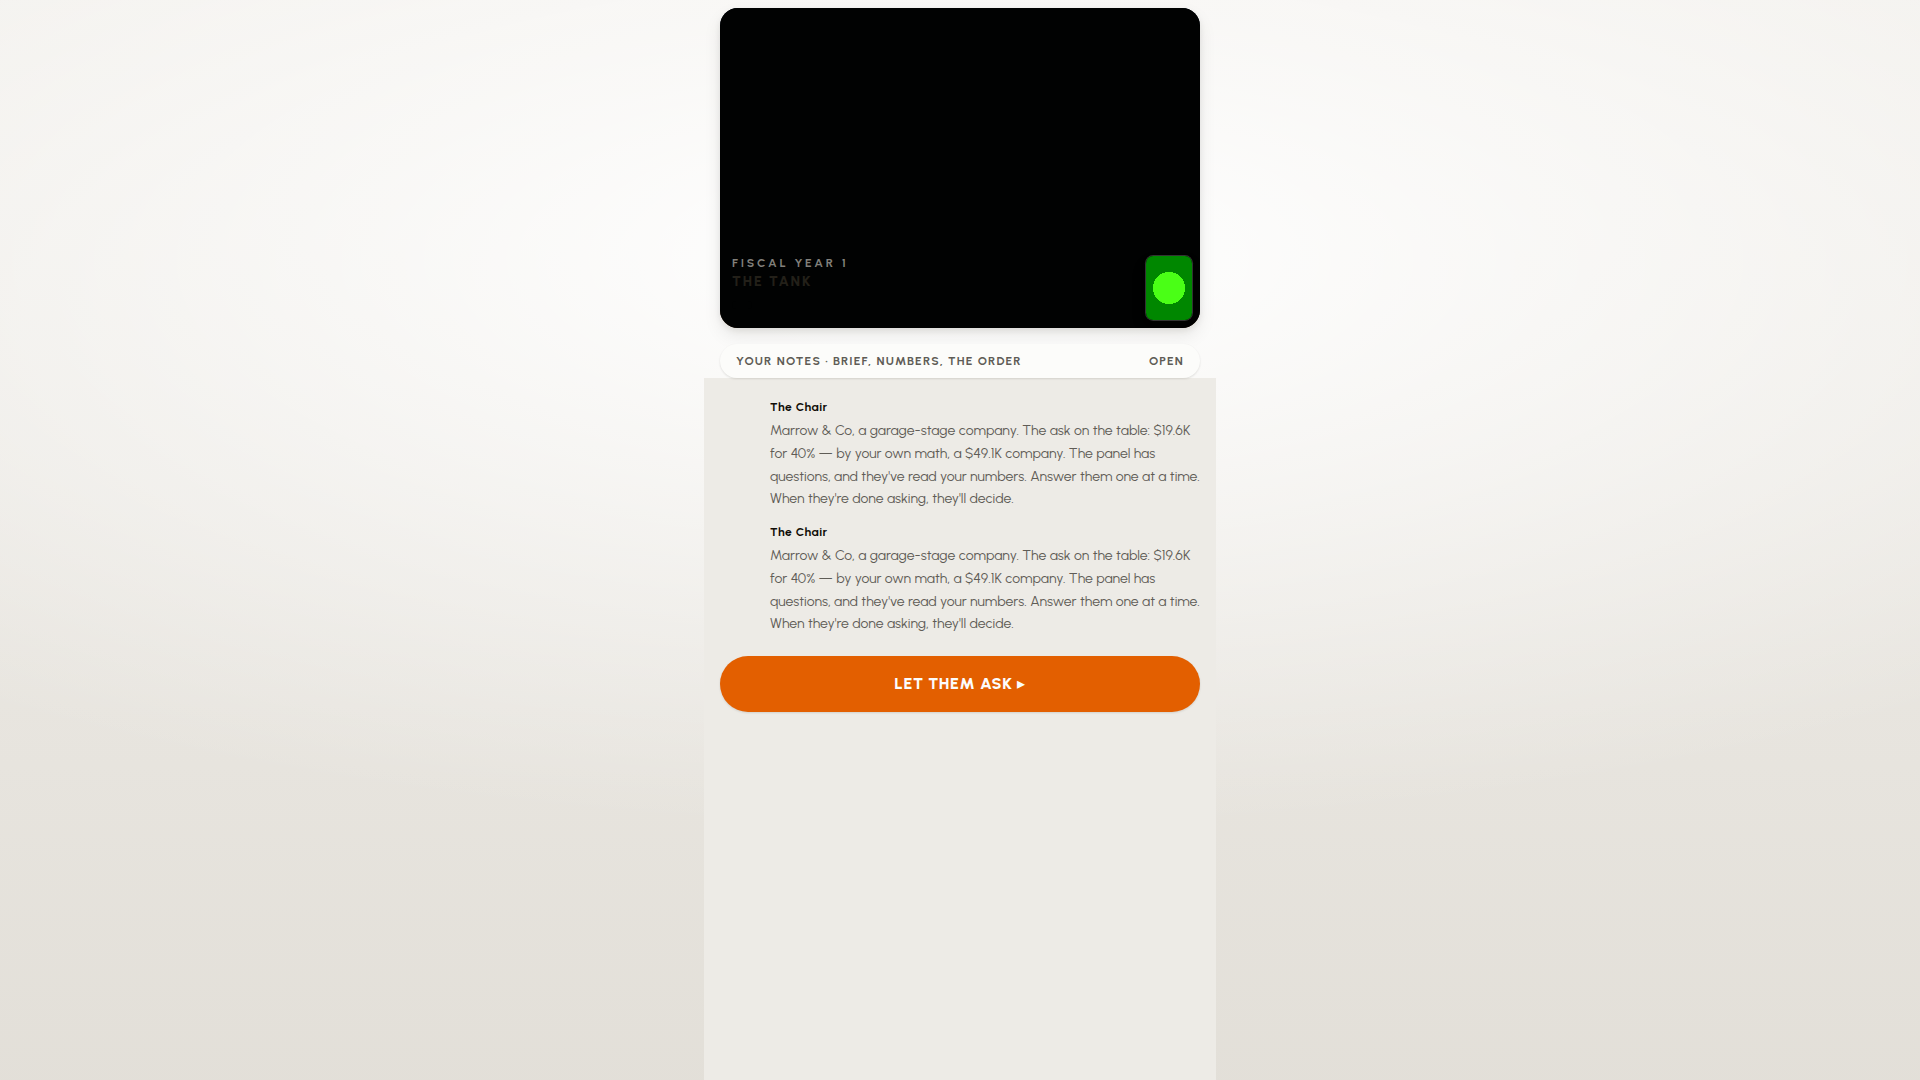
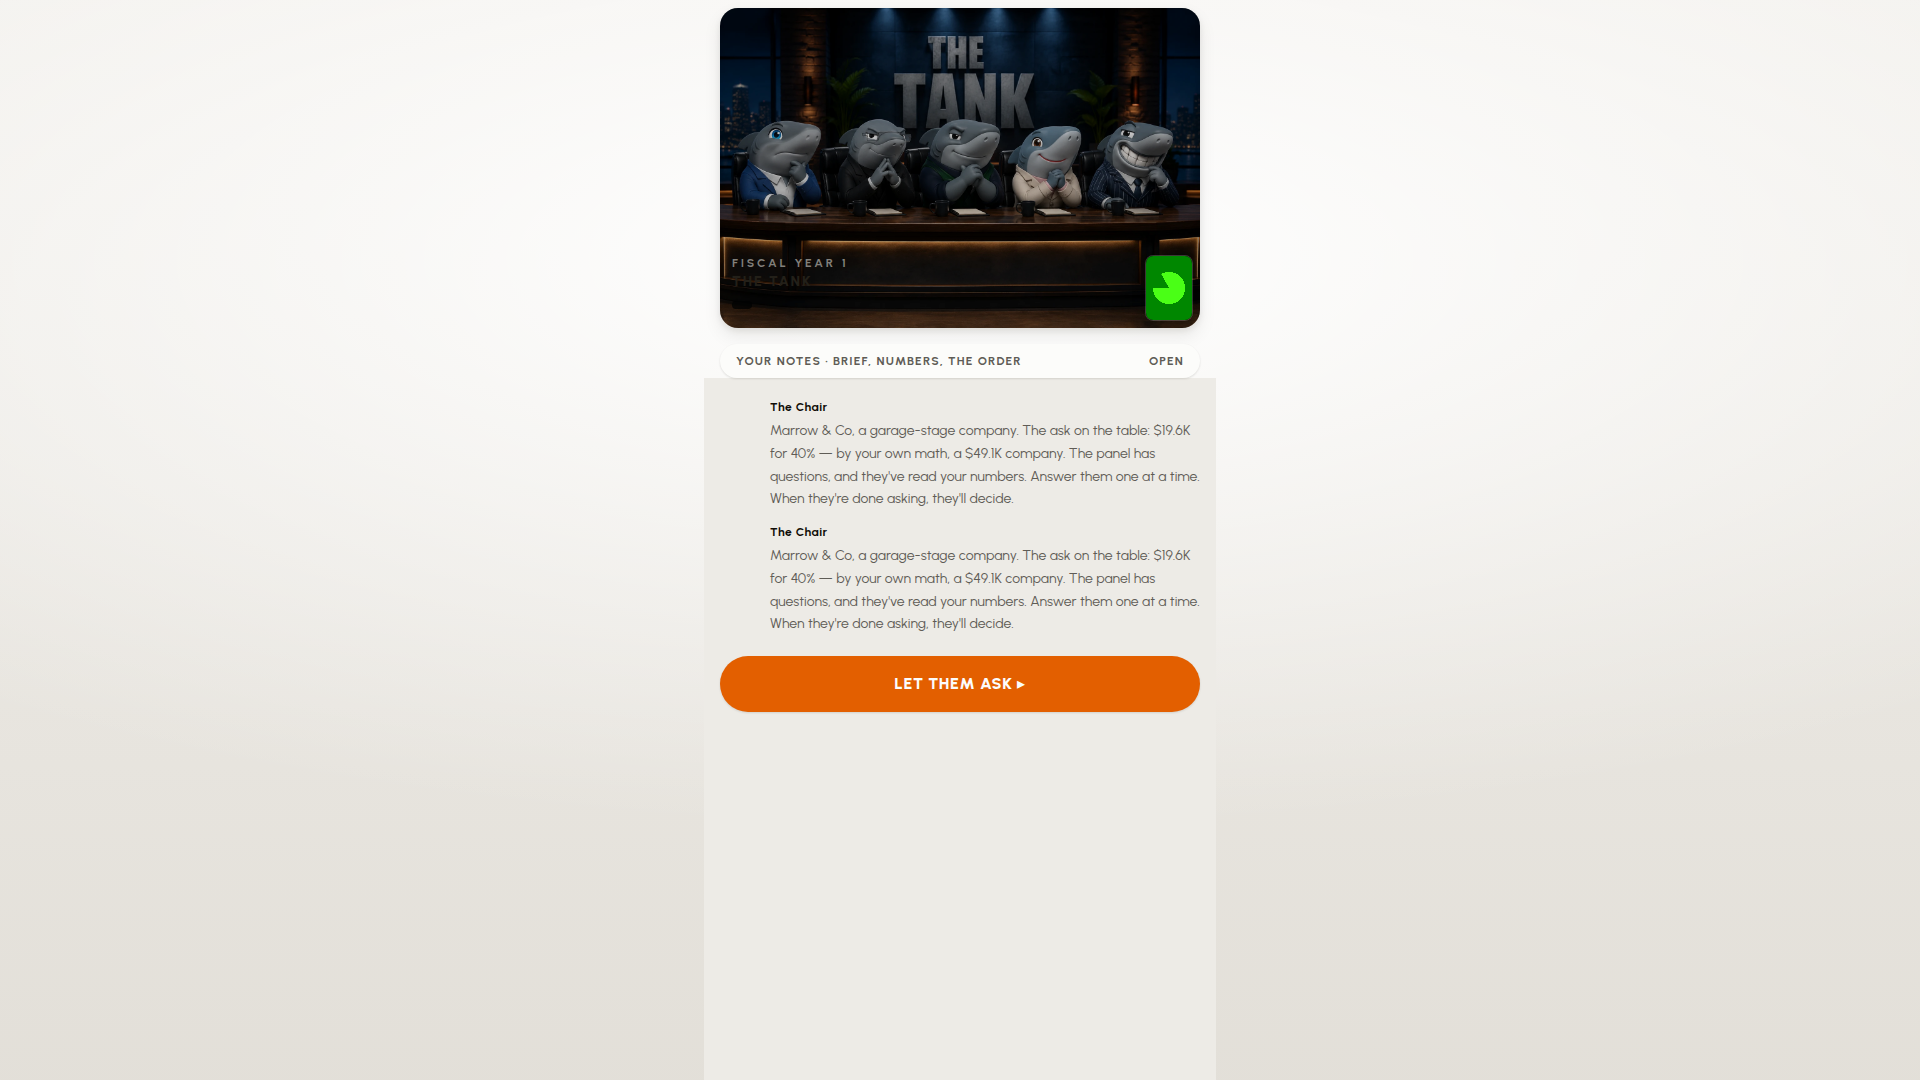
v3 frame 05-scenarios rebuilt
Claude-Session: https://claude.ai/code/session_012WSLRAiC5KC4WJfQrtdvFq

Changed region(s): [[0.375, 0.0, 0.625, 0.3056]]

diff --git a/videos/novus-launch/compositions/frames/05-scenarios.html b/videos/novus-launch/compositions/frames/05-scenarios.html
@@ -1,0 +1,287 @@
+<template>
+  <div id="root" data-composition-id="05-scenarios" data-duration="5.696" data-width="1920" data-height="1080">
+
+    <!-- full-bleed white stage ground -->
+    <div class="clip" id="05-bg" data-start="0" data-duration="5.696" data-track-index="0"></div>
+
+    <!-- typed pivot line (below the device so the sliding bezel reveals it) -->
+    <div class="clip" id="05-typed" data-start="4.9" data-duration="0.796" data-track-index="1">
+      <div class="typed-wrap">
+        <span class="typed-text" id="05-typed-text"></span><span class="typed-caret" id="05-typed-caret"></span>
+      </div>
+    </div>
+
+    <!-- bezel device: near-black hardware card on white; carries flash + drawn check at the pivot -->
+    <div class="clip" id="05-device" data-start="0" data-duration="5.696" data-track-index="2">
+      <div class="dev-wrap" id="05-devwrap">
+        <div class="dev-bezel">
+          <div class="dev-screen">
+            <svg class="dev-check-svg" viewBox="0 0 200 200" xmlns="http://www.w3.org/2000/svg">
+              <path id="05-check" d="M 48 104 L 88 146 L 156 62"/>
+            </svg>
+            <div class="dev-flash" id="05-flash"></div>
+          </div>
+        </div>
+      </div>
+    </div>
+
+    <!-- hoisted hero clip: decision card weighed and committed; window ends exactly at the "You decide." pivot (t=5.0) -->
+    <video data-frame-video="approved" src="assets/choices.mp4" muted playsinline preload="auto"
+      data-start="0.45" data-duration="4.55" data-track-index="3"
+      data-frame-video-x="740" data-frame-video-y="236" data-frame-video-width="440" data-frame-video-height="448"
+      data-frame-video-fit="cover"></video>
+
+    <!-- left pressure line -->
+    <div class="clip" id="05-pressL-clip" data-start="2.4" data-duration="3.296" data-track-index="4">
+      <div class="press press-l" id="05-pressL">
+        <svg class="press-tick" viewBox="0 0 40 56" xmlns="http://www.w3.org/2000/svg">
+          <path id="05-tickL" d="M 31 7 L 9 49"/>
+        </svg>
+        <div class="press-text" id="05-pressL-t">supplier squeezes</div>
+      </div>
+    </div>
+
+    <!-- right pressure line -->
+    <div class="clip" id="05-pressR-clip" data-start="3.74" data-duration="1.956" data-track-index="5">
+      <div class="press press-r" id="05-pressR">
+        <svg class="press-tick" viewBox="0 0 40 56" xmlns="http://www.w3.org/2000/svg">
+          <path id="05-tickR" d="M 31 7 L 9 49"/>
+        </svg>
+        <div class="press-text" id="05-pressR-t">rival copies</div>
+      </div>
+    </div>
+
+    <!-- mono kicker -->
+    <div class="clip" id="05-kicker-clip" data-start="0.15" data-duration="5.546" data-track-index="6">
+      <div class="kicker" id="05-kick">the scenarios</div>
+    </div>
+
+    <style>
+      @font-face {
+        font-family: "Urbanist";
+        src: url("assets/fonts/Urbanist-Variable.woff2") format("woff2-variations");
+        font-weight: 100 900;
+        font-style: normal;
+        font-display: block;
+      }
+      @font-face {
+        font-family: "IBM Plex Mono";
+        src: url("assets/fonts/IBMPlexMono-500.woff2") format("woff2");
+        font-weight: 500;
+        font-style: normal;
+        font-display: block;
+      }
+
+      #root {
+        position: relative;
+        width: 1920px;
+        height: 1080px;
+        overflow: hidden;
+        container-type: size;
+        font-family: "Urbanist", sans-serif;
+      }
+
+      #root .clip { position: absolute; inset: 0; }
+
+      #05-bg {
+        background: radial-gradient(120% 120% at 50% 45%, #FFFFFF 55%, #F7F5F2 100%);
+      }
+
+      /* ---- device ---- */
+      .dev-wrap {
+        position: absolute;
+        left: 726px;
+        top: 222px;
+        width: 468px;
+        height: 476px;
+      }
+      .dev-bezel {
+        position: absolute;
+        inset: 0;
+        background: #1A1918;
+        border-radius: 34px;
+        box-shadow: 0 1px 0 rgba(17,17,17,0.06),
+                    0 2px 4px rgba(17,17,17,0.07),
+                    0 18px 44px rgba(17,17,17,0.16);
+      }
+      .dev-screen {
+        position: absolute;
+        left: 14px;
+        top: 14px;
+        width: 440px;
+        height: 448px;
+        background: #111111;
+        border-radius: 22px;
+        overflow: hidden;
+      }
+      .dev-check-svg {
+        position: absolute;
+        left: 50%;
+        top: 50%;
+        width: 176px;
+        height: 176px;
+        margin-left: -88px;
+        margin-top: -88px;
+      }
+      .dev-check-svg path {
+        fill: none;
+        stroke: #3DDC97;
+        stroke-width: 16;
+        stroke-linecap: round;
+        stroke-linejoin: round;
+      }
+      .dev-flash {
+        position: absolute;
+        inset: 0;
+        background: #FFFFFF;
+        opacity: 0;
+      }
+
+      /* ---- pressure lines ---- */
+      .press { position: absolute; top: 398px; }
+      .press-l { right: 1254px; text-align: right; }
+      .press-r { left: 1254px; text-align: left; }
+      .press-tick { width: 34px; height: 46px; display: inline-block; }
+      .press-tick path {
+        fill: none;
+        stroke: #D92D20;
+        stroke-width: 7;
+        stroke-linecap: round;
+      }
+      .press-text {
+        font-size: 2.8cqw;
+        font-weight: 600;
+        line-height: 1.2;
+        color: #111111;
+        text-transform: lowercase;
+        white-space: nowrap;
+        margin-top: 0.4cqw;
+      }
+
+      /* ---- kicker ---- */
+      .kicker {
+        position: absolute;
+        top: 150px;
+        left: 0;
+        width: 100%;
+        text-align: center;
+        font-family: "IBM Plex Mono", monospace;
+        font-weight: 500;
+        font-size: 0.72cqw;
+        letter-spacing: 0.14em;
+        text-transform: uppercase;
+        color: #6B6864;
+      }
+
+      /* ---- typed pivot line ---- */
+      .typed-wrap {
+        position: absolute;
+        left: 940px;
+        top: 390px;
+        min-width: 900px;
+        white-space: nowrap;
+        display: flex;
+        align-items: baseline;
+      }
+      .typed-text {
+        font-size: 7.5cqw;
+        font-weight: 800;
+        line-height: 0.9;
+        letter-spacing: -0.03em;
+        color: #111111;
+        text-transform: lowercase;
+      }
+      .typed-caret {
+        display: inline-block;
+        width: 18px;
+        height: 104px;
+        margin-left: 12px;
+        align-self: center;
+        background: #111111;
+        opacity: 0;
+      }
+    </style>
+
+    <script src="assets/vendor/gsap.min.js"></script>
+    <script>
+      (function () {
+        // svg-path-draw setup: measured lengths, never guessed
+        ["05-tickL", "05-tickR", "05-check"].forEach(function (id) {
+          var p = document.getElementById(id);
+          var len = p.getTotalLength() * 1.05;
+          p.style.strokeDasharray = String(len);
+          p.style.strokeDashoffset = String(len);
+        });
+
+        var tl = gsap.timeline({ paused: true });
+        window.__timelines = window.__timelines || {};
+        window.__timelines["05-scenarios"] = tl;
+
+        /* Scene 1 (0-2.4) — device rises center, screen dark; clip lights it at 0.45.
+           "Every month brings a real scenario." */
+        tl.fromTo("#05-devwrap", { y: 70, opacity: 0 },
+          { y: 0, opacity: 1, duration: 0.4, ease: "power3.out" }, 0.05);
+        tl.fromTo("#05-kick", { y: 16, opacity: 0 },
+          { y: 0, opacity: 1, duration: 0.5, ease: "power3.out" }, 0.2);
+
+        /* Scene 2 (2.4-4.96) — pressure lines flank on their word cues */
+        // "supplier" 2.43 / "squeezes" 2.99
+        tl.to("#05-tickL", { strokeDashoffset: 0, duration: 0.32, ease: "power2.out" }, 2.43);
+        tl.fromTo("#05-pressL-t", { y: 26, opacity: 0 },
+          { y: 0, opacity: 1, duration: 0.45, ease: "power3.out" }, 2.5);
+        tl.to("#05-devwrap", { scale: 0.985, duration: 0.1, ease: "power2.out" }, 2.99);
+        tl.to("#05-devwrap", { scale: 1, duration: 0.18, ease: "power2.out" }, 3.09);
+        // "rival" 3.77 / "copies" 4.22
+        tl.to("#05-tickR", { strokeDashoffset: 0, duration: 0.32, ease: "power2.out" }, 3.77);
+        tl.fromTo("#05-pressR-t", { y: 26, opacity: 0 },
+          { y: 0, opacity: 1, duration: 0.45, ease: "power3.out" }, 3.85);
+        tl.to("#05-devwrap", { scale: 0.985, duration: 0.1, ease: "power2.out" }, 4.22);
+        tl.to("#05-devwrap", { scale: 1, duration: 0.18, ease: "power2.out" }, 4.32);
+
+        /* Scene 3 pivot — "you" lands at 5.0; the clip window ends here.
+           Commit flash + drawn check + slide-aside are ONE event on the bezel. */
+        tl.fromTo("#05-flash", { opacity: 0 },
+          { opacity: 0.9, duration: 0.06, ease: "power1.in" }, 5.0);
+        tl.to("#05-flash", { opacity: 0, duration: 0.24, ease: "power2.out" }, 5.06);
+        tl.to("#05-check", { strokeDashoffset: 0, duration: 0.3, ease: "power2.out" }, 5.04);
+        tl.to("#05-devwrap", { x: -530, scale: 0.8, duration: 0.3, ease: "power2.inOut" }, 5.0);
+        tl.to("#05-pressL", { x: -60, opacity: 0, duration: 0.28, ease: "power2.in" }, 5.0);
+        tl.to("#05-pressR", { x: 60, opacity: 0, duration: 0.28, ease: "power2.in" }, 5.0);
+
+        /* discrete-text-sequence — "you decide." types into the opened center.
+           Keystrokes then a bulk paste on "decide." (5.17-5.78); caret blinks then stops. */
+        var SEQ = [
+          { t: 0.0, text: "" },
+          { t: 5.18, text: "y" },
+          { t: 5.26, text: "yo" },
+          { t: 5.32, text: "you" },
+          { t: 5.44, text: "you decide." }
+        ];
+        function textAt(time) {
+          for (var i = SEQ.length - 1; i >= 0; i--) {
+            if (time >= SEQ[i].t) return SEQ[i].text;
+          }
+          return "";
+        }
+        var textEl = document.getElementById("05-typed-text");
+        var caretEl = document.getElementById("05-typed-caret");
+        var driver = { t: 0 };
+        tl.to(driver, {
+          t: 5.696,
+          duration: 5.696,
+          ease: "none",
+          onUpdate: function () {
+            textEl.textContent = textAt(driver.t);
+            // caret: deterministic sin square-wave blink, solid ("stops") after 5.58
+            if (driver.t >= 5.58) {
+              caretEl.style.opacity = "1";
+            } else {
+              var phase = ((driver.t - 4.9) / 0.55) * Math.PI * 2;
+              caretEl.style.opacity = Math.sin(phase) > -0.1 ? "1" : "0";
+            }
+          }
+        }, 0);
+      })();
+    </script>
+  </div>
+</template>
